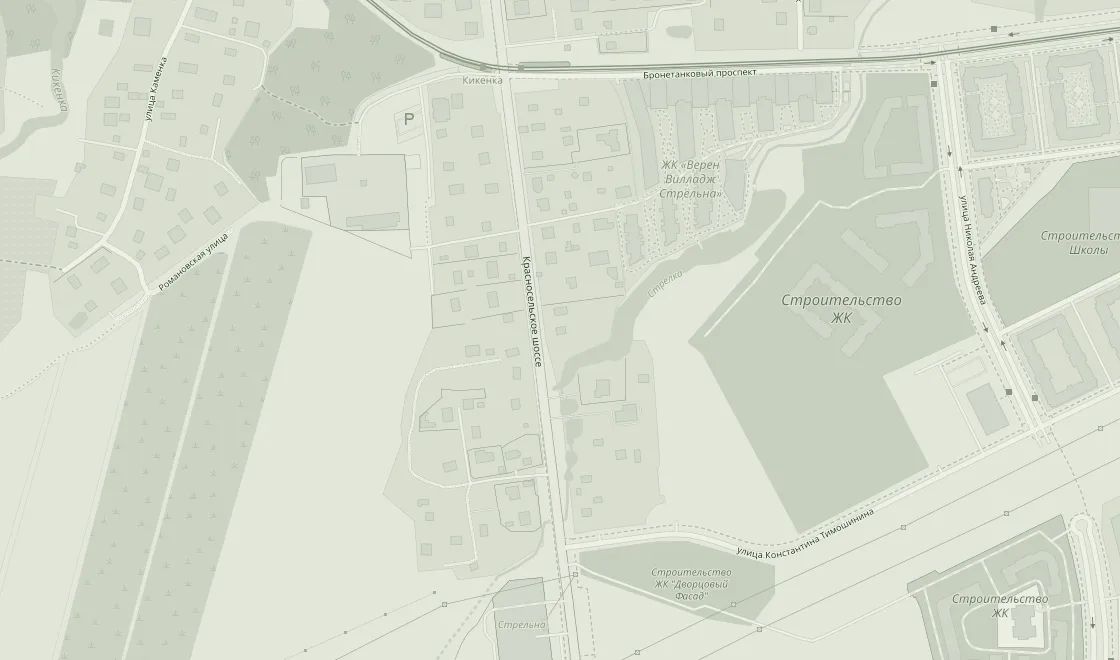
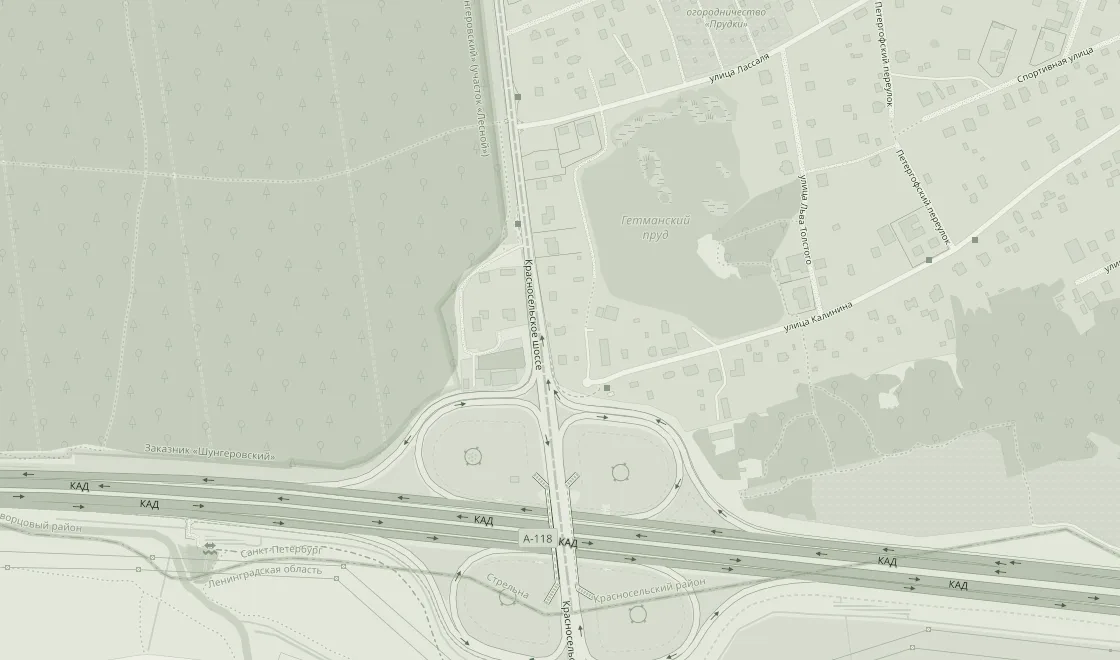
dereva-kusok: адрес Горелово, карта

diff --git a/dereva-kusok/index.html b/dereva-kusok/index.html
@@ -186,7 +186,7 @@
           <label class="f">Имя <input name="name" autocomplete="name" required></label>
           <label class="f">Телефон <input name="phone" id="fPhone" type="tel" inputmode="tel" autocomplete="tel" placeholder="+7 (___) ___-__-__" required></label>
         </div>
-        <label class="f">Размеры, район, пожелания <textarea name="comment" rows="3" placeholder="Например, ниша 180 × 60 см, высота 2,7 м, Петергоф"></textarea></label>
+        <label class="f">Размеры, район, пожелания <textarea name="comment" rows="3" placeholder="Например, ниша 180 × 60 см, высота 2,7 м, Красное Село"></textarea></label>
         <fieldset class="via"><legend>Как удобнее связаться</legend>
           <label><input type="radio" name="via" value="Звонок" checked><span>Звонок</span></label>
           <label><input type="radio" name="via" value="WhatsApp"><span>WhatsApp</span></label>
@@ -203,7 +203,7 @@
     <div class="where">
       <ul class="cl">
         <li><span>Телефон, WhatsApp</span><a href="tel:+79119770090">+7 911 977-00-90</a></li>
-        <li><span>Мастерская</span>Санкт-Петербург, Красносельское шоссе, 56</li>
+        <li><span>Мастерская</span>Горелово, Красносельское шоссе, 56</li>
         <li><span>Работаем</span>пн–пт 8:00–22:00, сб–вс 9:00–22:00</li>
       </ul>
       <div class="msg">
@@ -212,10 +212,10 @@
         <a class="btn btn-ghost" href="https://t.me/+79119770090" target="_blank" rel="noopener">Telegram</a>
       </div>
       <figure class="map">
-        <img src="img/map.webp" alt="Карта: Красносельское шоссе, 56" width="1120" height="660" loading="lazy">
+        <img src="img/map.webp" alt="Карта: Горелово, Красносельское шоссе, 56" width="1120" height="660" loading="lazy">
         <i class="pin" aria-hidden="true"></i>
         <figcaption>© участники OpenStreetMap</figcaption>
-        <a class="btn btn-light map-btn" href="https://yandex.ru/maps/?text=%D0%A1%D0%B0%D0%BD%D0%BA%D1%82-%D0%9F%D0%B5%D1%82%D0%B5%D1%80%D0%B1%D1%83%D1%80%D0%B3%2C%20%D0%9A%D1%80%D0%B0%D1%81%D0%BD%D0%BE%D1%81%D0%B5%D0%BB%D1%8C%D1%81%D0%BA%D0%BE%D0%B5%20%D1%88%D0%BE%D1%81%D1%81%D0%B5%2C%2056" target="_blank" rel="noopener">Открыть в Яндекс Картах</a>
+        <a class="btn btn-light map-btn" href="https://yandex.ru/maps/?pt=30.0750305,59.8182786&amp;z=16&amp;l=map" target="_blank" rel="noopener">Открыть в Яндекс Картах</a>
       </figure>
     </div>
   </div>
